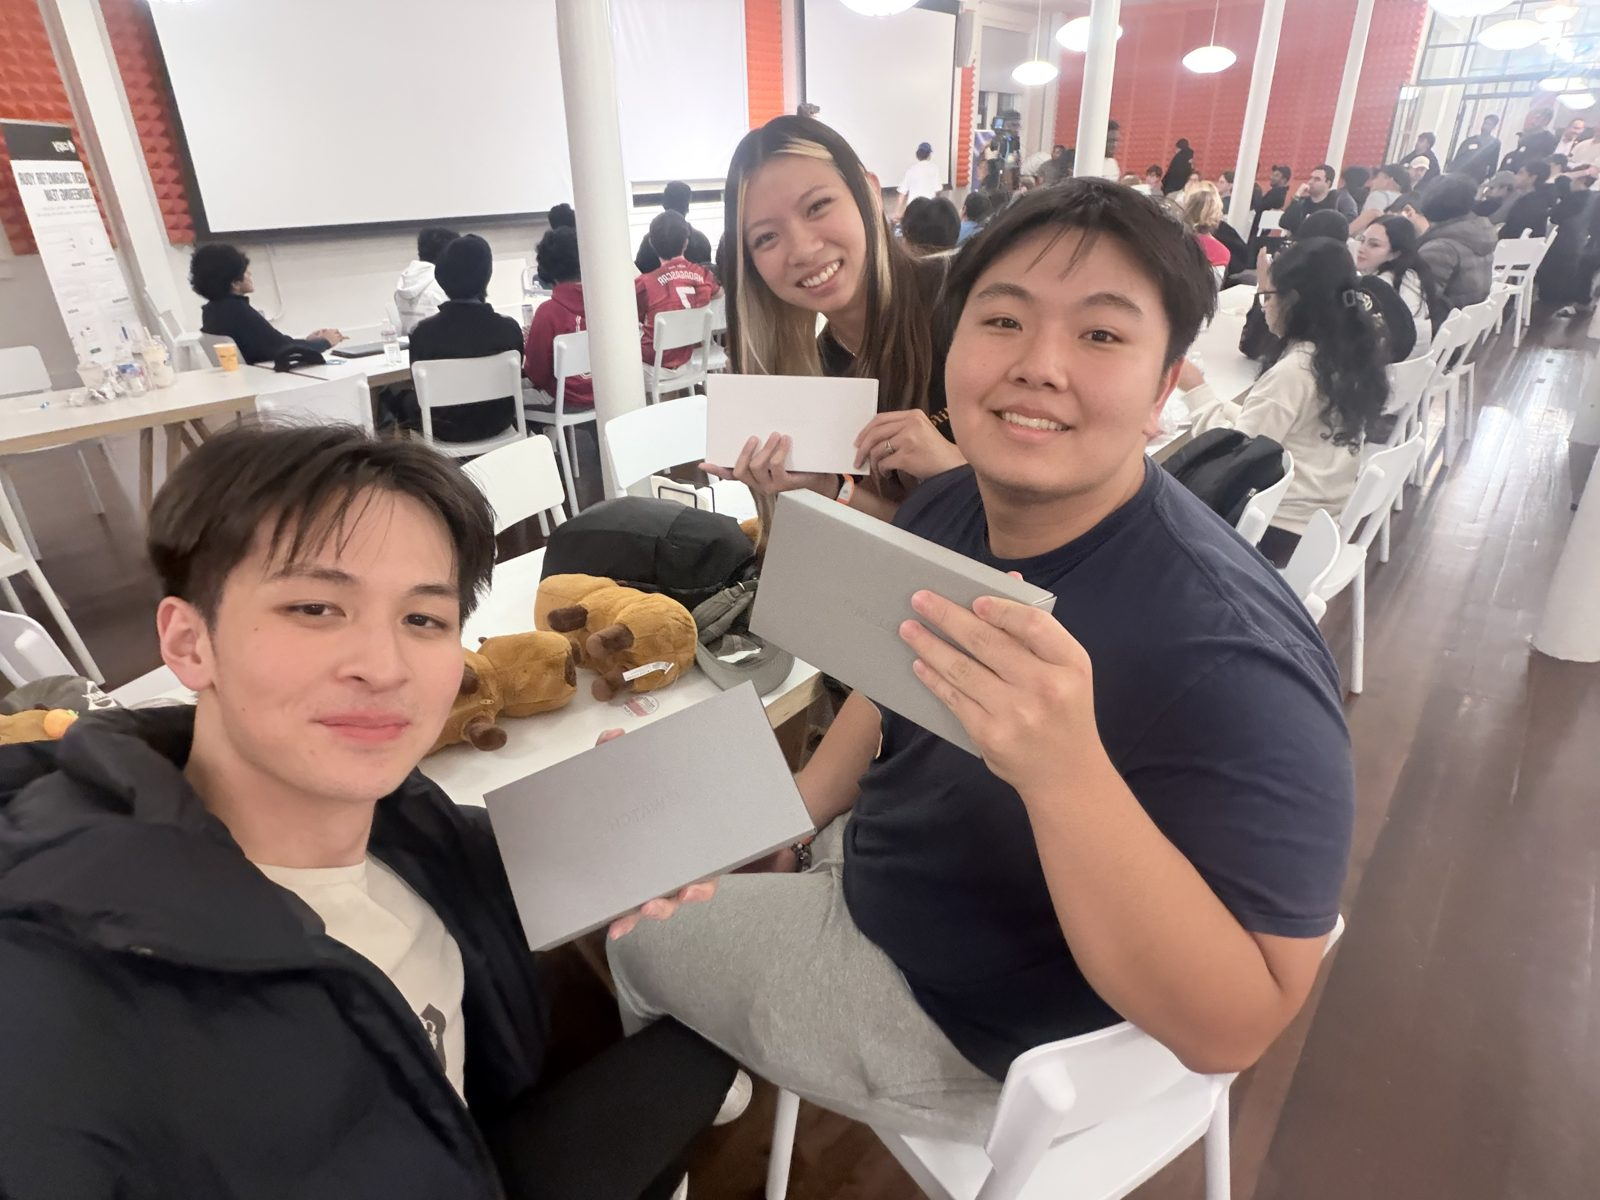
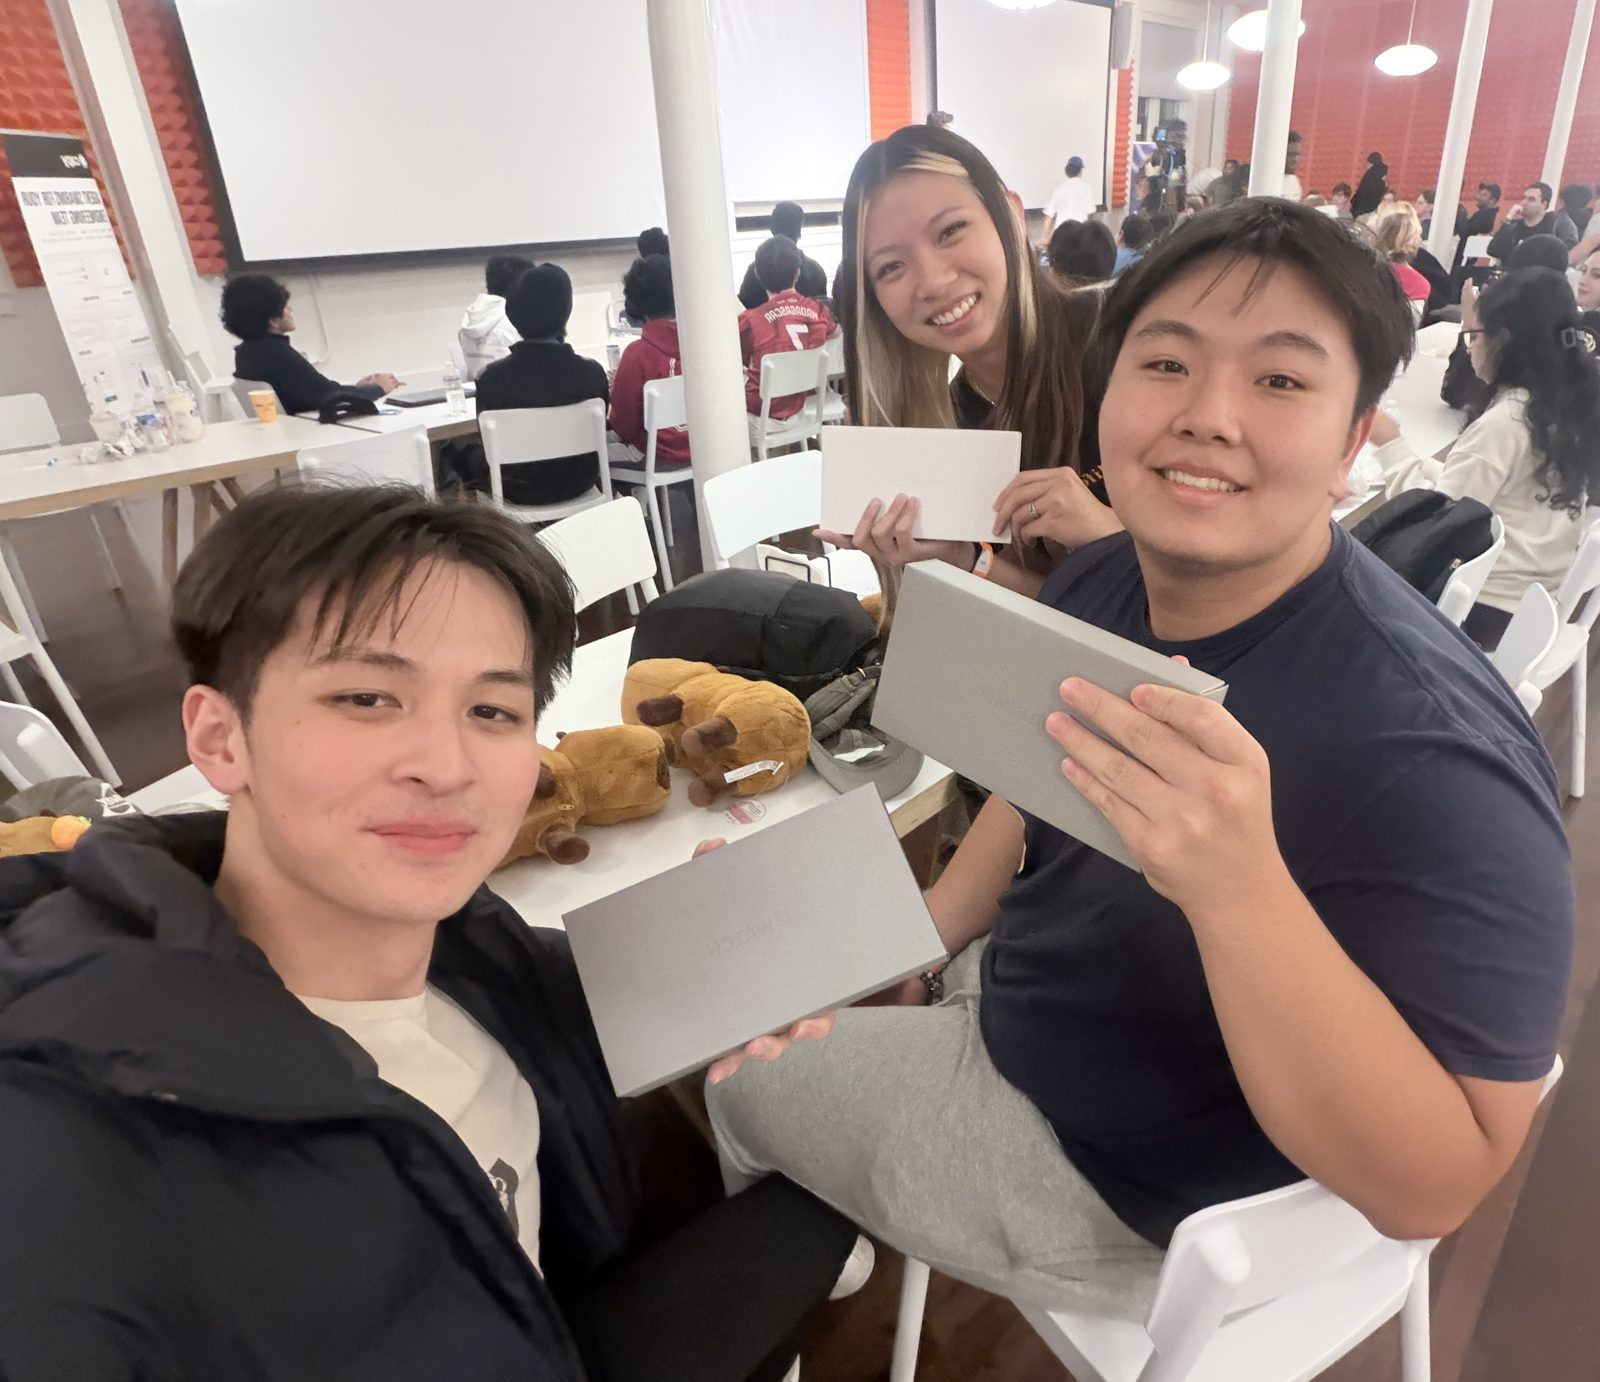
Recrop YC hackathon photo; link the Plus Me Project speech video
YC photo is recropped from the full-resolution original to the framing
Justin picked. Photo strip captions can now carry a link; the Plus Me
Project photo links to the speech on YouTube.

diff --git a/src/components/simple/PhotoStrip.tsx b/src/components/simple/PhotoStrip.tsx
@@ -12,6 +12,8 @@ export interface Photo {
   // Use the photo's real ratio (e.g. 4 / 3) to show a wide photo whole;
   // it stays the same height as the others, just wider.
   ratio?: number
+  // Optional link shown under the caption, e.g. a video of the event.
+  link?: { label: string; href: string }
 }
 
 // A sideways-scrolling row of photos. Swipe or trackpad-scroll it; the
@@ -39,7 +41,19 @@ export function PhotoStrip({ photos }: { photos: Photo[] }) {
                 loading={i < 2 ? 'eager' : 'lazy'}
                 style={ph.focus ? { objectPosition: ph.focus } : undefined}
               />
-              {ph.caption && <figcaption>{ph.caption}</figcaption>}
+              {(ph.caption || ph.link) && (
+                <figcaption>
+                  {ph.caption}
+                  {ph.link && (
+                    <>
+                      {ph.caption && <br />}
+                      <a href={ph.link.href} target="_blank" rel="noreferrer" className="sb-link-u">
+                        {ph.link.label}
+                      </a>
+                    </>
+                  )}
+                </figcaption>
+              )}
             </figure>
           </li>
         ))}

diff --git a/src/data/about.ts b/src/data/about.ts
@@ -16,7 +16,7 @@ export const photos = [
     src: '/photos/yc-hackathon-2026.jpg',
     alt: 'Justin and two teammates smiling and holding up their Apple Watch prize boxes at the YC hackathon',
     caption: '3rd place, YC Consumer Mobile Hackathon, San Francisco, Nov 2026. We each won an Apple Watch.',
-    ratio: 4 / 3,
+    ratio: 1600 / 1382,
   },
   {
     src: '/photos/flux-glasses.jpg',
@@ -42,6 +42,7 @@ export const photos = [
     src: '/photos/downtown-magnets.jpg',
     alt: 'Justin at a podium on stage giving a speech, with Downtown Magnets High School on the screen behind him',
     caption: 'Speaking at the Plus Me Project’s My Story Matters: IMPACT event, May 2024, as one of six Los Angeles seniors awarded',
+    link: { label: 'Watch the speech', href: 'https://www.youtube.com/watch?v=NATPwf2gIms&t=6s' },
   },
   {
     src: '/photos/cif-spirit-award.jpg',
